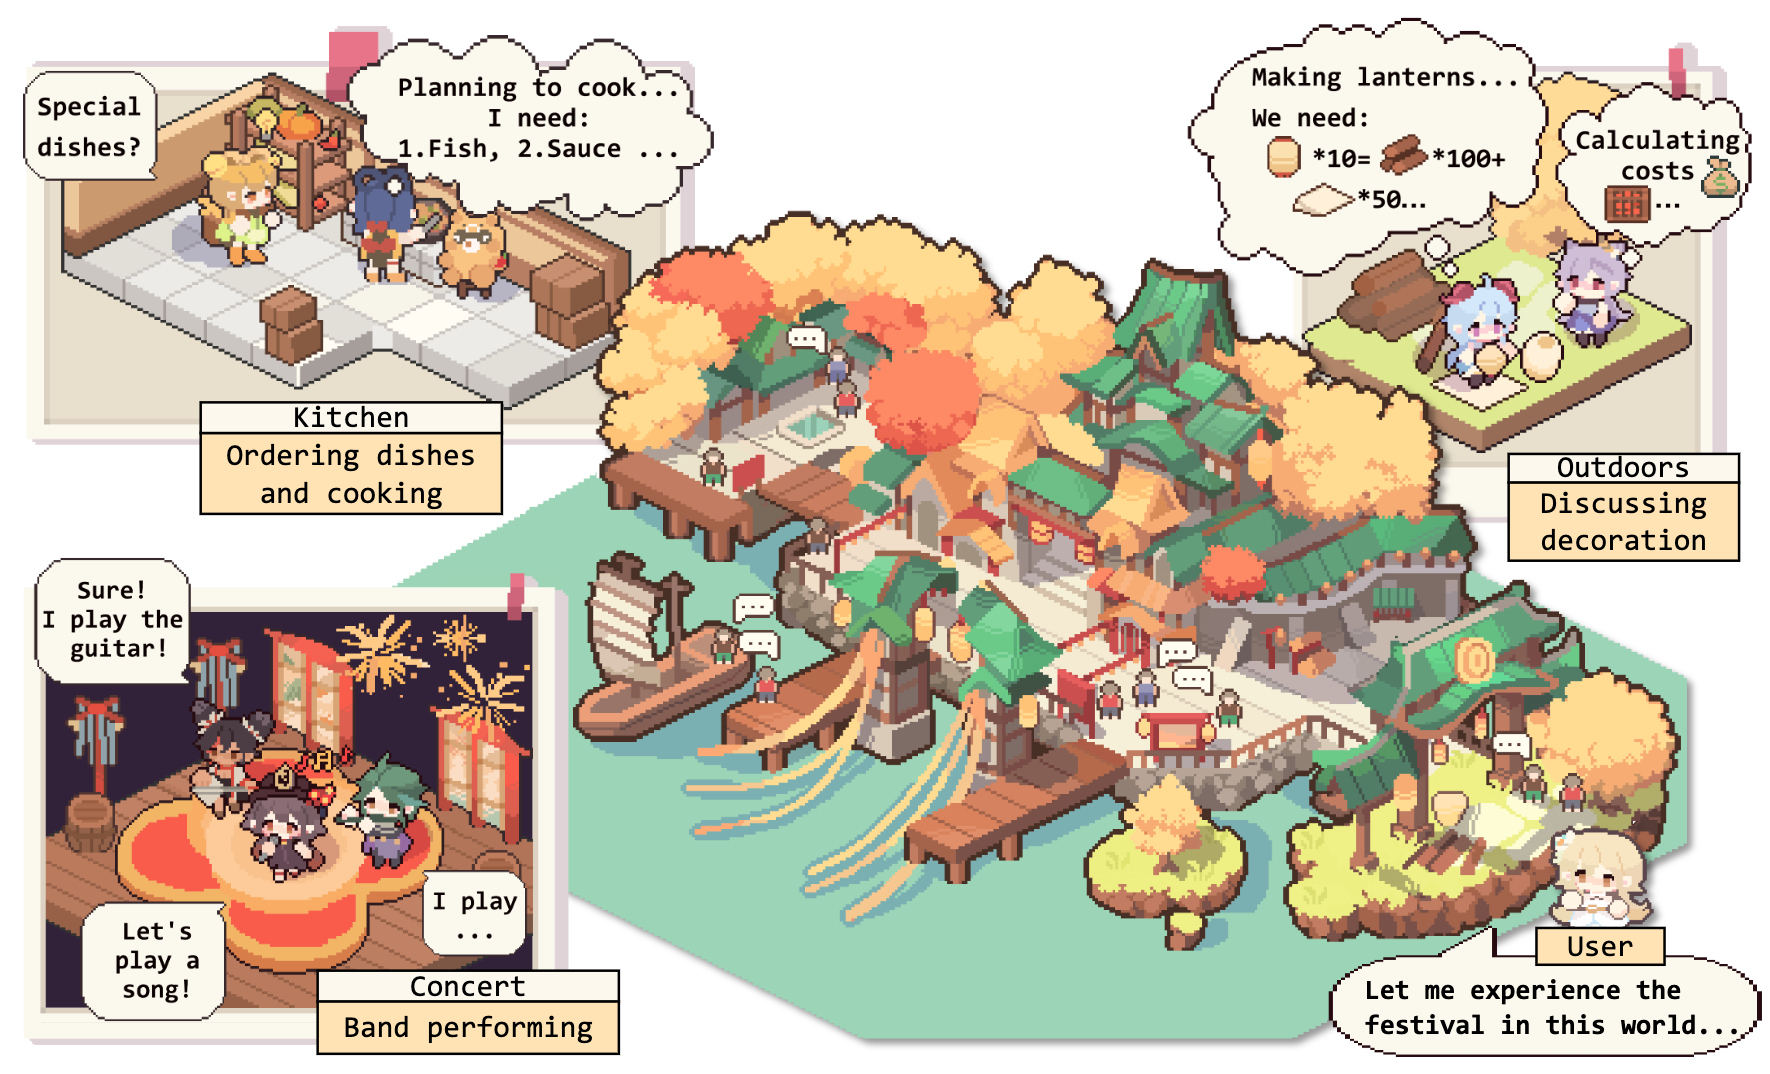
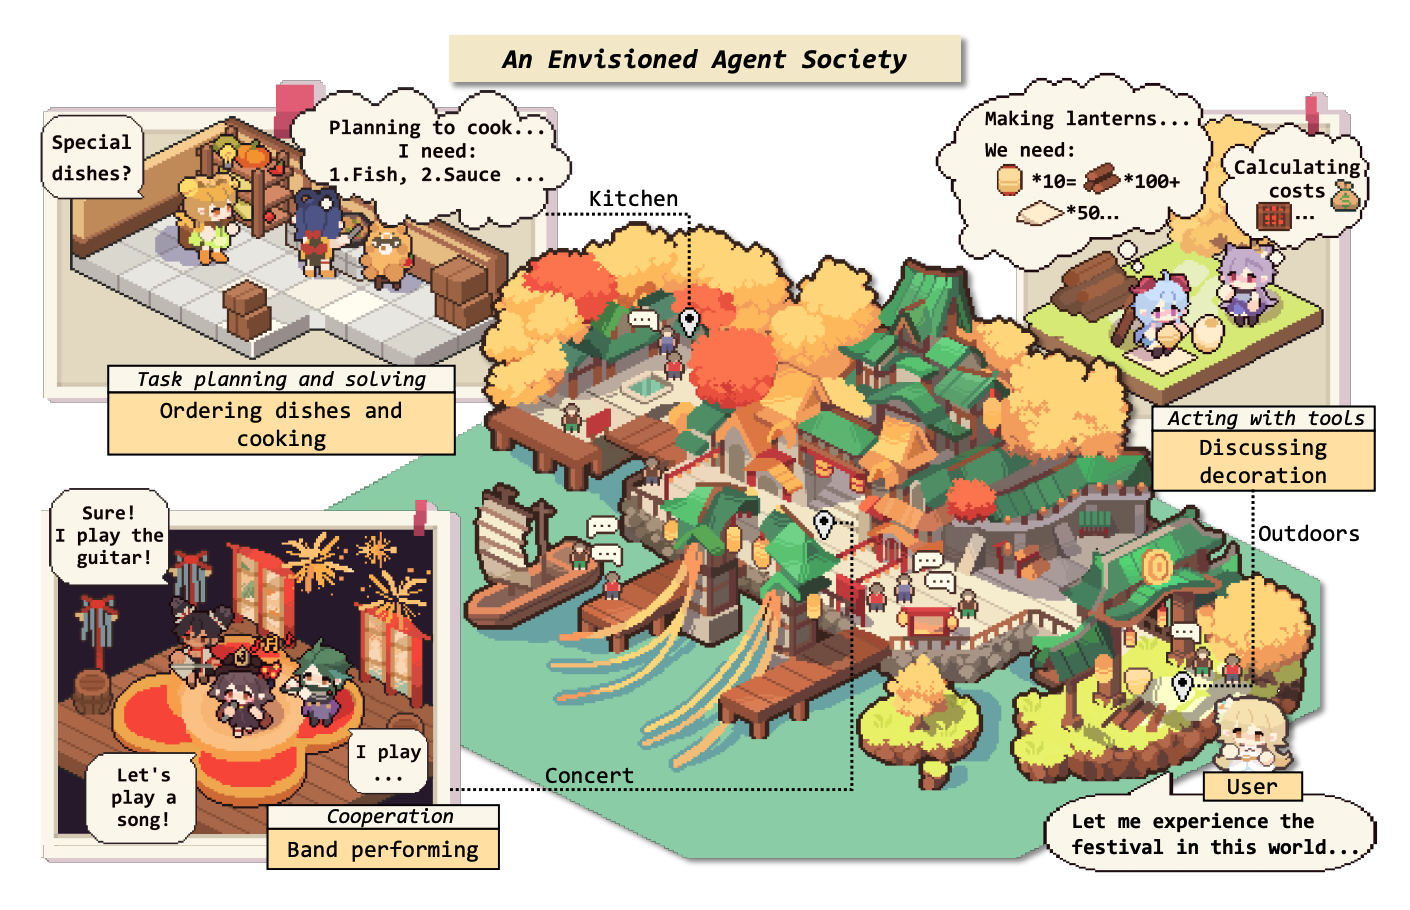
update: TOC and Figure 1

diff --git a/README.md b/README.md
@@ -30,16 +30,35 @@ Finally, we discuss a range of key topics and open problems within the field.
   - [1. The Birth of An Agent: Construction of LLM-based Agents](#1-the-birth-of-an-agent-construction-of-llm-based-agents)
     - [1.1 Brain: Primarily Composed of An LLM](#11-brain-primarily-composed-of-an-llm)
       - [1.1.1 Natural Language Interaction](#111-natural-language-interaction)
+        - [High-quality generation](#high-quality-generation)
+        - [Deep understanding](#deep-understanding)
       - [1.1.2 Knowledge](#112-knowledge)
+        - [Pretrain model](#pretrain-model)
+        - [Linguistic knowledge](#linguistic-knowledge)
+        - [Commensense knowledge](#commensense-knowledge)
+        - [Actionable knowledge](#actionable-knowledge)
+        - [Potential issues of knowledge](#potential-issues-of-knowledge)
       - [1.1.3 Memory](#113-memory)
+        - [Memory capability](#memory-capability)
+          - [Raising the length limit of Transformers](#raising-the-length-limit-of-transformers)
+          - [Summarizing memory](#summarizing-memory)
+          - [Compressing memories with vectors or data structures](#compressing-memories-with-vectors-or-data-structures)
+        - [Memory retrieval](#memory-retrieval)
       - [1.1.4 Reasoning \& Planning](#114-reasoning--planning)
+        - [Reasoning](#reasoning)
+        - [Planning](#planning)
+          - [Plan formulation](#plan-formulation)
+          - [Plan reflection](#plan-reflection)
       - [1.1.5 Transferability and Generalization](#115-transferability-and-generalization)
+        - [Unseen task generalization](#unseen-task-generalization)
+        - [In-context learning](#in-context-learning)
+        - [Continual learning](#continual-learning)
     - [1.2 Perception: Multimodal Inputs for LLM-based Agents](#12-perception-multimodal-inputs-for-llm-based-agents)
       - [Visual](#visual)
       - [Audio](#audio)
     - [1.3 Action: Expand Action Space of LLM-based Agents](#13-action-expand-action-space-of-llm-based-agents)
-      - [Tool Using](#tool-using)
-      - [Embodied Action](#embodied-action)
+      - [1.3.1 Tool Using](#131-tool-using)
+      - [1.3.2 Embodied Action](#132-embodied-action)
   - [2. Agents in Practice: Applications of LLM-based Agents](#2-agents-in-practice-applications-of-llm-based-agents)
     - [2.1 General Ability of Single Agent](#21-general-ability-of-single-agent)
       - [2.1.1 Task-orietned Deployment](#211-task-orietned-deployment)
@@ -50,11 +69,21 @@ Finally, we discuss a range of key topics and open problems within the field.
       - [2.2.2 Adversarial Interaction for Advancement](#222-adversarial-interaction-for-advancement)
     - [2.3 Interactive Engagement between Human and Agent](#23-interactive-engagement-between-human-and-agent)
       - [2.3.1 Instructor-Executor Paradigm](#231-instructor-executor-paradigm)
+        - [Education](#education)
+        - [Health](#health)
+        - [Other Application](#other-application)
       - [2.3.2 Equal Partnership Paradigm](#232-equal-partnership-paradigm)
+        - [Empathetic Communicator](#empathetic-communicator)
+        - [Human-Level Participant](#human-level-participant)
   - [3. Agent Society: From Individuality to Sociality](#3-agent-society-from-individuality-to-sociality)
     - [3.1 Behavior and Personality of LLM-based Agents](#31-behavior-and-personality-of-llm-based-agents)
       - [3.1.1 Social Behavior](#311-social-behavior)
+        - [Individual behaviors](#individual-behaviors)
+        - [Group behaviors](#group-behaviors)
       - [3.1.2 Personality](#312-personality)
+        - [Cognition](#cognition)
+        - [Emotion](#emotion)
+        - [Character](#character)
     - [3.2 Environment for Agent Society](#32-environment-for-agent-society)
       - [3.2.1 Text-based Environment](#321-text-based-environment)
       - [3.2.2 Virtual Sandbox Environment](#322-virtual-sandbox-environment)
@@ -62,6 +91,7 @@ Finally, we discuss a range of key topics and open problems within the field.
     - [3.3 Society Simulation with LLM-based Agents](#33-society-simulation-with-llm-based-agents)
   - [Project Maintainers \& Contributors](#project-maintainers--contributors)
   - [Contact](#contact)
+
 
 
 
